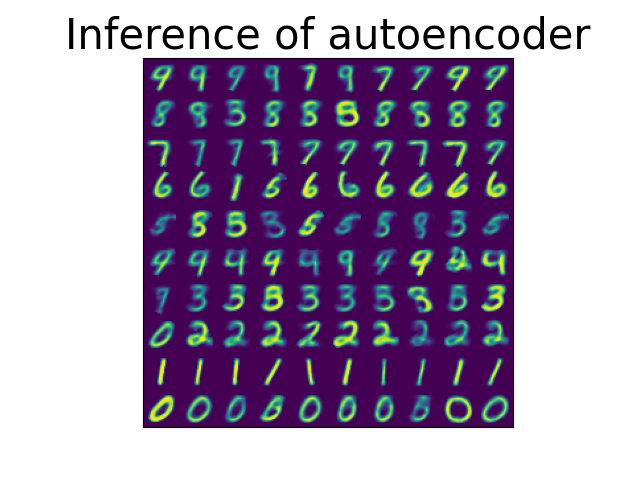
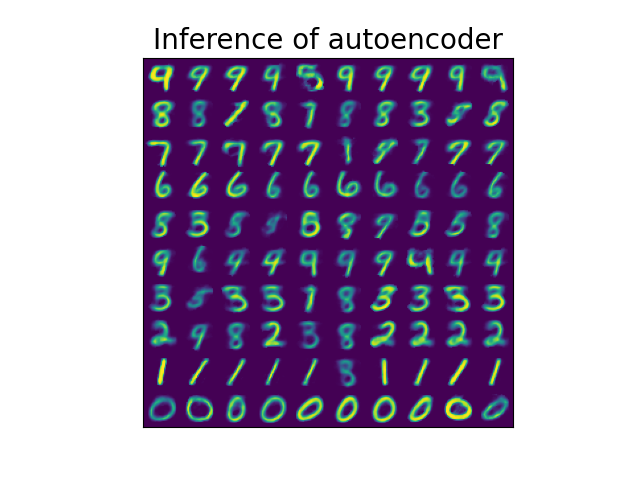
CODING: smaller font in inference plot

Changed region(s): [[0.0938, 0.0312, 0.9375, 0.9062]]

diff --git a/final_code/linear_AE_10d_amsgrad_10e4_epochs/visualise.py b/final_code/linear_AE_10d_amsgrad_10e4_epochs/visualise.py
@@ -6,7 +6,8 @@ from torch.nn import Module
 from torch.utils.data import DataLoader
 
 DEVICE = "cuda" if torch.cuda.is_available() else "cpu"
-FONTSIZE = 30
+FONTSIZE_LATENT = 30
+FONTSIZE_INFERENCE = 20
 
 
 # Plot the latent 2D space
@@ -36,7 +37,7 @@ def plot_latent_2D_linear(
         if i > num_batches:
             fig.colorbar(plot, ax=ax)
             break
-    plt.title("Latent space of encoder", fontsize=FONTSIZE)
+    plt.title("Latent space of encoder", fontsize=FONTSIZE_LATENT)
     dir_path = os.path.dirname(os.path.realpath(__file__))
     file_name = (
         f"{os.path.basename(os.path.dirname(os.path.realpath(__file__)))}_latent.png"
@@ -71,7 +72,7 @@ def plot_latent_2D_convolutional(
         if i > num_batches:
             fig.colorbar(plot, ax=ax)
             break
-    plt.title("Latent space of encoder", fontsize=FONTSIZE)
+    plt.title("Latent space of encoder", fontsize=FONTSIZE_LATENT)
     dir_path = os.path.dirname(os.path.realpath(__file__))
     file_name = (
         f"{os.path.basename(os.path.dirname(os.path.realpath(__file__)))}_latent.png"
@@ -142,7 +143,7 @@ def plot_latent_3D_linear(
         if i > num_batches:
             fig.colorbar(plot, ax=ax)
             break
-    plt.title("Latent space of encoder", fontsize=FONTSIZE)
+    plt.title("Latent space of encoder", fontsize=FONTSIZE_LATENT)
     plt.show()
 
 
@@ -178,7 +179,7 @@ def plot_latent_3D_convolutional(
         if i > num_batches:
             fig.colorbar(plot, ax=ax)
             break
-    plt.title("Latent space of encoder", fontsize=FONTSIZE)
+    plt.title("Latent space of encoder", fontsize=FONTSIZE_LATENT)
     plt.show()
 
 
@@ -276,7 +277,7 @@ def inference_convolutional(
                 (amount - 1 - i) * width : (amount - 1 - i + 1) * width,
                 j * width : (j + 1) * width,
             ] = recon
-    plt.title("Inference of autoencoder", fontsize=FONTSIZE)
+    plt.title("Inference of autoencoder", fontsize=FONTSIZE_INFERENCE)
     plt.xticks([])
     plt.yticks([])
     plt.imshow(img)
@@ -317,7 +318,7 @@ def inference_linear(
                 (amount - 1 - i) * width : (amount - 1 - i + 1) * width,
                 j * width : (j + 1) * width,
             ] = recon
-    plt.title("Inference of autoencoder", fontsize=FONTSIZE)
+    plt.title("Inference of autoencoder", fontsize=FONTSIZE_INFERENCE)
     plt.xticks([])
     plt.yticks([])
     plt.imshow(img)

diff --git a/final_code/linear_AE_10d_amsgrad_10e5_epochs/visualise.py b/final_code/linear_AE_10d_amsgrad_10e5_epochs/visualise.py
@@ -6,7 +6,8 @@ from torch.nn import Module
 from torch.utils.data import DataLoader
 
 DEVICE = "cuda" if torch.cuda.is_available() else "cpu"
-FONTSIZE = 30
+FONTSIZE_LATENT = 30
+FONTSIZE_INFERENCE = 20
 
 
 # Plot the latent 2D space
@@ -36,7 +37,7 @@ def plot_latent_2D_linear(
         if i > num_batches:
             fig.colorbar(plot, ax=ax)
             break
-    plt.title("Latent space of encoder", fontsize=FONTSIZE)
+    plt.title("Latent space of encoder", fontsize=FONTSIZE_LATENT)
     dir_path = os.path.dirname(os.path.realpath(__file__))
     file_name = (
         f"{os.path.basename(os.path.dirname(os.path.realpath(__file__)))}_latent.png"
@@ -71,7 +72,7 @@ def plot_latent_2D_convolutional(
         if i > num_batches:
             fig.colorbar(plot, ax=ax)
             break
-    plt.title("Latent space of encoder", fontsize=FONTSIZE)
+    plt.title("Latent space of encoder", fontsize=FONTSIZE_LATENT)
     dir_path = os.path.dirname(os.path.realpath(__file__))
     file_name = (
         f"{os.path.basename(os.path.dirname(os.path.realpath(__file__)))}_latent.png"
@@ -142,7 +143,7 @@ def plot_latent_3D_linear(
         if i > num_batches:
             fig.colorbar(plot, ax=ax)
             break
-    plt.title("Latent space of encoder", fontsize=FONTSIZE)
+    plt.title("Latent space of encoder", fontsize=FONTSIZE_LATENT)
     plt.show()
 
 
@@ -178,7 +179,7 @@ def plot_latent_3D_convolutional(
         if i > num_batches:
             fig.colorbar(plot, ax=ax)
             break
-    plt.title("Latent space of encoder", fontsize=FONTSIZE)
+    plt.title("Latent space of encoder", fontsize=FONTSIZE_LATENT)
     plt.show()
 
 
@@ -276,7 +277,7 @@ def inference_convolutional(
                 (amount - 1 - i) * width : (amount - 1 - i + 1) * width,
                 j * width : (j + 1) * width,
             ] = recon
-    plt.title("Inference of autoencoder", fontsize=FONTSIZE)
+    plt.title("Inference of autoencoder", fontsize=FONTSIZE_INFERENCE)
     plt.xticks([])
     plt.yticks([])
     plt.imshow(img)
@@ -317,7 +318,7 @@ def inference_linear(
                 (amount - 1 - i) * width : (amount - 1 - i + 1) * width,
                 j * width : (j + 1) * width,
             ] = recon
-    plt.title("Inference of autoencoder", fontsize=FONTSIZE)
+    plt.title("Inference of autoencoder", fontsize=FONTSIZE_INFERENCE)
     plt.xticks([])
     plt.yticks([])
     plt.imshow(img)

diff --git a/final_code/linear_AE_2d_adam/visualise.py b/final_code/linear_AE_2d_adam/visualise.py
@@ -6,7 +6,8 @@ from torch.nn import Module
 from torch.utils.data import DataLoader
 
 DEVICE = "cuda" if torch.cuda.is_available() else "cpu"
-FONTSIZE = 30
+FONTSIZE_LATENT = 30
+FONTSIZE_INFERENCE = 20
 
 
 # Plot the latent 2D space
@@ -36,7 +37,7 @@ def plot_latent_2D_linear(
         if i > num_batches:
             fig.colorbar(plot, ax=ax)
             break
-    plt.title("Latent space of encoder", fontsize=FONTSIZE)
+    plt.title("Latent space of encoder", fontsize=FONTSIZE_LATENT)
     dir_path = os.path.dirname(os.path.realpath(__file__))
     file_name = (
         f"{os.path.basename(os.path.dirname(os.path.realpath(__file__)))}_latent.png"
@@ -71,7 +72,7 @@ def plot_latent_2D_convolutional(
         if i > num_batches:
             fig.colorbar(plot, ax=ax)
             break
-    plt.title("Latent space of encoder", fontsize=FONTSIZE)
+    plt.title("Latent space of encoder", fontsize=FONTSIZE_LATENT)
     dir_path = os.path.dirname(os.path.realpath(__file__))
     file_name = (
         f"{os.path.basename(os.path.dirname(os.path.realpath(__file__)))}_latent.png"
@@ -142,7 +143,7 @@ def plot_latent_3D_linear(
         if i > num_batches:
             fig.colorbar(plot, ax=ax)
             break
-    plt.title("Latent space of encoder", fontsize=FONTSIZE)
+    plt.title("Latent space of encoder", fontsize=FONTSIZE_LATENT)
     plt.show()
 
 
@@ -178,7 +179,7 @@ def plot_latent_3D_convolutional(
         if i > num_batches:
             fig.colorbar(plot, ax=ax)
             break
-    plt.title("Latent space of encoder", fontsize=FONTSIZE)
+    plt.title("Latent space of encoder", fontsize=FONTSIZE_LATENT)
     plt.show()
 
 
@@ -276,7 +277,7 @@ def inference_convolutional(
                 (amount - 1 - i) * width : (amount - 1 - i + 1) * width,
                 j * width : (j + 1) * width,
             ] = recon
-    plt.title("Inference of autoencoder", fontsize=FONTSIZE)
+    plt.title("Inference of autoencoder", fontsize=FONTSIZE_INFERENCE)
     plt.xticks([])
     plt.yticks([])
     plt.imshow(img)
@@ -317,7 +318,7 @@ def inference_linear(
                 (amount - 1 - i) * width : (amount - 1 - i + 1) * width,
                 j * width : (j + 1) * width,
             ] = recon
-    plt.title("Inference of autoencoder", fontsize=FONTSIZE)
+    plt.title("Inference of autoencoder", fontsize=FONTSIZE_INFERENCE)
     plt.xticks([])
     plt.yticks([])
     plt.imshow(img)

diff --git a/final_code/linear_AE_2d_amsgrad/visualise.py b/final_code/linear_AE_2d_amsgrad/visualise.py
@@ -6,7 +6,8 @@ from torch.nn import Module
 from torch.utils.data import DataLoader
 
 DEVICE = "cuda" if torch.cuda.is_available() else "cpu"
-FONTSIZE = 30
+FONTSIZE_LATENT = 30
+FONTSIZE_INFERENCE = 20
 
 
 # Plot the latent 2D space
@@ -36,7 +37,7 @@ def plot_latent_2D_linear(
         if i > num_batches:
             fig.colorbar(plot, ax=ax)
             break
-    plt.title("Latent space of encoder", fontsize=FONTSIZE)
+    plt.title("Latent space of encoder", fontsize=FONTSIZE_LATENT)
     dir_path = os.path.dirname(os.path.realpath(__file__))
     file_name = (
         f"{os.path.basename(os.path.dirname(os.path.realpath(__file__)))}_latent.png"
@@ -71,7 +72,7 @@ def plot_latent_2D_convolutional(
         if i > num_batches:
             fig.colorbar(plot, ax=ax)
             break
-    plt.title("Latent space of encoder", fontsize=FONTSIZE)
+    plt.title("Latent space of encoder", fontsize=FONTSIZE_LATENT)
     dir_path = os.path.dirname(os.path.realpath(__file__))
     file_name = (
         f"{os.path.basename(os.path.dirname(os.path.realpath(__file__)))}_latent.png"
@@ -142,7 +143,7 @@ def plot_latent_3D_linear(
         if i > num_batches:
             fig.colorbar(plot, ax=ax)
             break
-    plt.title("Latent space of encoder", fontsize=FONTSIZE)
+    plt.title("Latent space of encoder", fontsize=FONTSIZE_LATENT)
     plt.show()
 
 
@@ -178,7 +179,7 @@ def plot_latent_3D_convolutional(
         if i > num_batches:
             fig.colorbar(plot, ax=ax)
             break
-    plt.title("Latent space of encoder", fontsize=FONTSIZE)
+    plt.title("Latent space of encoder", fontsize=FONTSIZE_LATENT)
     plt.show()
 
 
@@ -276,7 +277,7 @@ def inference_convolutional(
                 (amount - 1 - i) * width : (amount - 1 - i + 1) * width,
                 j * width : (j + 1) * width,
             ] = recon
-    plt.title("Inference of autoencoder", fontsize=FONTSIZE)
+    plt.title("Inference of autoencoder", fontsize=FONTSIZE_INFERENCE)
     plt.xticks([])
     plt.yticks([])
     plt.imshow(img)
@@ -317,7 +318,7 @@ def inference_linear(
                 (amount - 1 - i) * width : (amount - 1 - i + 1) * width,
                 j * width : (j + 1) * width,
             ] = recon
-    plt.title("Inference of autoencoder", fontsize=FONTSIZE)
+    plt.title("Inference of autoencoder", fontsize=FONTSIZE_INFERENCE)
     plt.xticks([])
     plt.yticks([])
     plt.imshow(img)

diff --git a/final_code/linear_AE_3d_adam/visualise.py b/final_code/linear_AE_3d_adam/visualise.py
@@ -6,7 +6,8 @@ from torch.nn import Module
 from torch.utils.data import DataLoader
 
 DEVICE = "cuda" if torch.cuda.is_available() else "cpu"
-FONTSIZE = 30
+FONTSIZE_LATENT = 30
+FONTSIZE_INFERENCE = 20
 
 
 # Plot the latent 2D space
@@ -36,7 +37,7 @@ def plot_latent_2D_linear(
         if i > num_batches:
             fig.colorbar(plot, ax=ax)
             break
-    plt.title("Latent space of encoder", fontsize=FONTSIZE)
+    plt.title("Latent space of encoder", fontsize=FONTSIZE_LATENT)
     dir_path = os.path.dirname(os.path.realpath(__file__))
     file_name = (
         f"{os.path.basename(os.path.dirname(os.path.realpath(__file__)))}_latent.png"
@@ -71,7 +72,7 @@ def plot_latent_2D_convolutional(
         if i > num_batches:
             fig.colorbar(plot, ax=ax)
             break
-    plt.title("Latent space of encoder", fontsize=FONTSIZE)
+    plt.title("Latent space of encoder", fontsize=FONTSIZE_LATENT)
     dir_path = os.path.dirname(os.path.realpath(__file__))
     file_name = (
         f"{os.path.basename(os.path.dirname(os.path.realpath(__file__)))}_latent.png"
@@ -142,7 +143,7 @@ def plot_latent_3D_linear(
         if i > num_batches:
             fig.colorbar(plot, ax=ax)
             break
-    plt.title("Latent space of encoder", fontsize=FONTSIZE)
+    plt.title("Latent space of encoder", fontsize=FONTSIZE_LATENT)
     plt.show()
 
 
@@ -178,7 +179,7 @@ def plot_latent_3D_convolutional(
         if i > num_batches:
             fig.colorbar(plot, ax=ax)
             break
-    plt.title("Latent space of encoder", fontsize=FONTSIZE)
+    plt.title("Latent space of encoder", fontsize=FONTSIZE_LATENT)
     plt.show()
 
 
@@ -276,7 +277,7 @@ def inference_convolutional(
                 (amount - 1 - i) * width : (amount - 1 - i + 1) * width,
                 j * width : (j + 1) * width,
             ] = recon
-    plt.title("Inference of autoencoder", fontsize=FONTSIZE)
+    plt.title("Inference of autoencoder", fontsize=FONTSIZE_INFERENCE)
     plt.xticks([])
     plt.yticks([])
     plt.imshow(img)
@@ -317,7 +318,7 @@ def inference_linear(
                 (amount - 1 - i) * width : (amount - 1 - i + 1) * width,
                 j * width : (j + 1) * width,
             ] = recon
-    plt.title("Inference of autoencoder", fontsize=FONTSIZE)
+    plt.title("Inference of autoencoder", fontsize=FONTSIZE_INFERENCE)
     plt.xticks([])
     plt.yticks([])
     plt.imshow(img)

diff --git a/final_code/linear_AE_3d_amsgrad/visualise.py b/final_code/linear_AE_3d_amsgrad/visualise.py
@@ -6,7 +6,8 @@ from torch.nn import Module
 from torch.utils.data import DataLoader
 
 DEVICE = "cuda" if torch.cuda.is_available() else "cpu"
-FONTSIZE = 30
+FONTSIZE_LATENT = 30
+FONTSIZE_INFERENCE = 20
 
 
 # Plot the latent 2D space
@@ -36,7 +37,7 @@ def plot_latent_2D_linear(
         if i > num_batches:
             fig.colorbar(plot, ax=ax)
             break
-    plt.title("Latent space of encoder", fontsize=FONTSIZE)
+    plt.title("Latent space of encoder", fontsize=FONTSIZE_LATENT)
     dir_path = os.path.dirname(os.path.realpath(__file__))
     file_name = (
         f"{os.path.basename(os.path.dirname(os.path.realpath(__file__)))}_latent.png"
@@ -71,7 +72,7 @@ def plot_latent_2D_convolutional(
         if i > num_batches:
             fig.colorbar(plot, ax=ax)
             break
-    plt.title("Latent space of encoder", fontsize=FONTSIZE)
+    plt.title("Latent space of encoder", fontsize=FONTSIZE_LATENT)
     dir_path = os.path.dirname(os.path.realpath(__file__))
     file_name = (
         f"{os.path.basename(os.path.dirname(os.path.realpath(__file__)))}_latent.png"
@@ -142,7 +143,7 @@ def plot_latent_3D_linear(
         if i > num_batches:
             fig.colorbar(plot, ax=ax)
             break
-    plt.title("Latent space of encoder", fontsize=FONTSIZE)
+    plt.title("Latent space of encoder", fontsize=FONTSIZE_LATENT)
     plt.show()
 
 
@@ -178,7 +179,7 @@ def plot_latent_3D_convolutional(
         if i > num_batches:
             fig.colorbar(plot, ax=ax)
             break
-    plt.title("Latent space of encoder", fontsize=FONTSIZE)
+    plt.title("Latent space of encoder", fontsize=FONTSIZE_LATENT)
     plt.show()
 
 
@@ -276,7 +277,7 @@ def inference_convolutional(
                 (amount - 1 - i) * width : (amount - 1 - i + 1) * width,
                 j * width : (j + 1) * width,
             ] = recon
-    plt.title("Inference of autoencoder", fontsize=FONTSIZE)
+    plt.title("Inference of autoencoder", fontsize=FONTSIZE_INFERENCE)
     plt.xticks([])
     plt.yticks([])
     plt.imshow(img)
@@ -317,7 +318,7 @@ def inference_linear(
                 (amount - 1 - i) * width : (amount - 1 - i + 1) * width,
                 j * width : (j + 1) * width,
             ] = recon
-    plt.title("Inference of autoencoder", fontsize=FONTSIZE)
+    plt.title("Inference of autoencoder", fontsize=FONTSIZE_INFERENCE)
     plt.xticks([])
     plt.yticks([])
     plt.imshow(img)
